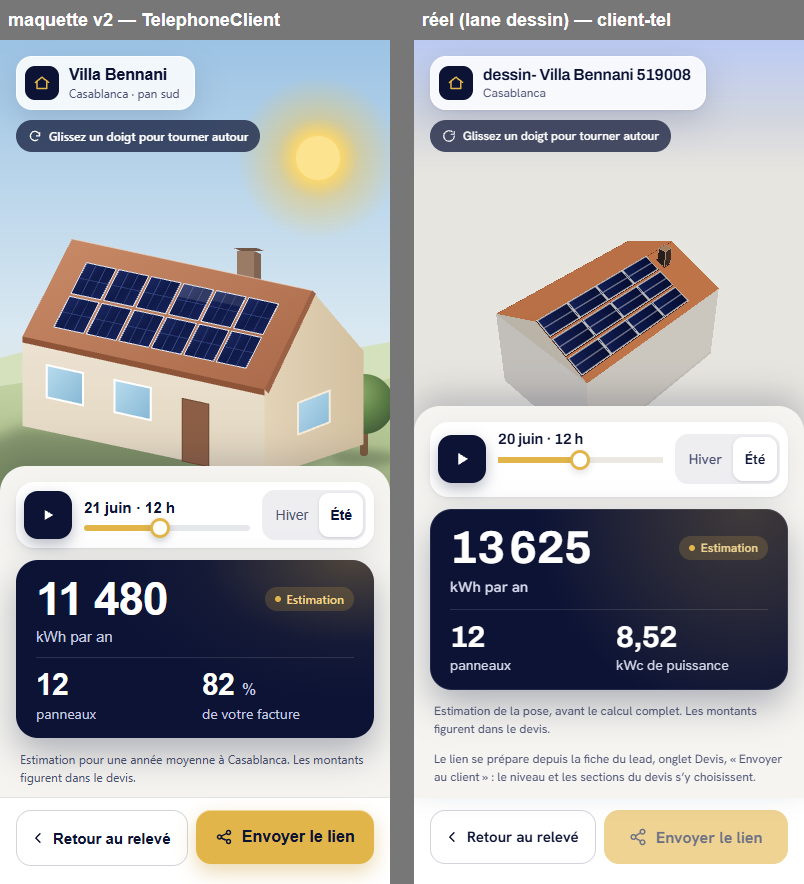
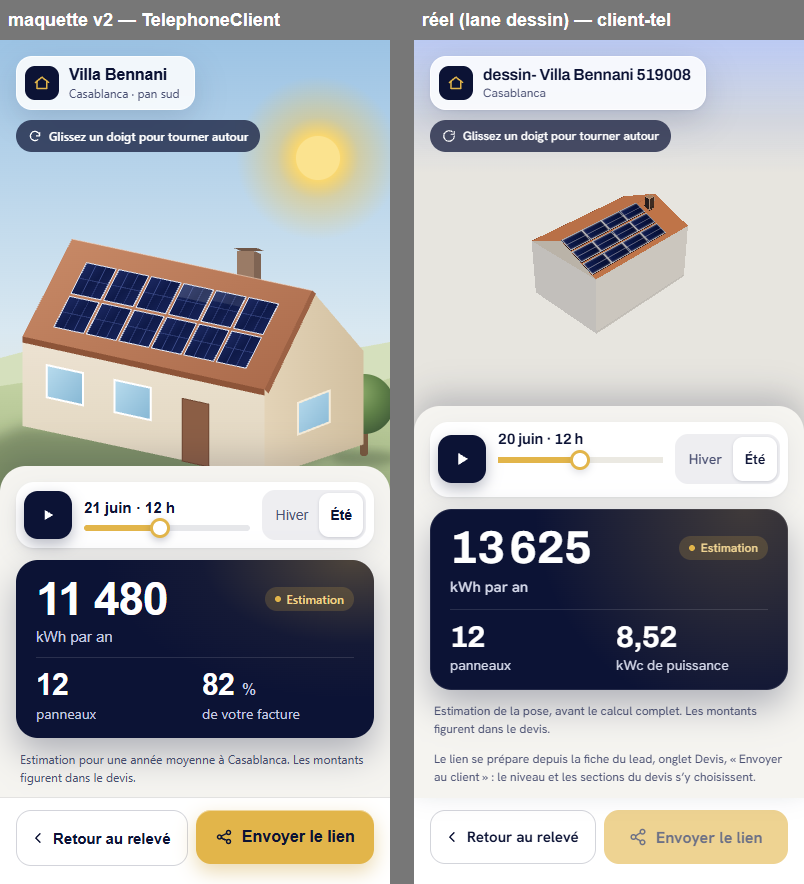
ACAL1839 (suite) : cadrage du volume en perspective, recadrage au changement de vue, rien d'edition au client
Vu a l'ecran apres les commits precedents : (1) en 3D dans l'atelier, la maison restait coupee sous les cartes du
haut — passer Plan -> 3D ne recadrait pas ; (2) l'echelle verticale estimee au centre sous-estimait les parties
proches de l'oeil ; (3) la pastille « Onduleur » (couche electrique) paraissait dans « Montrer au client ».
Correctifs : cadrageToit.ts — hauteur projetee EN CHAQUE sommet par les valeurs singulieres de la projection
locale du sol ((||M||^2^2 - 4 det^2)^1/4 = s.sin theta), 4 passes ; apiCamera.appliquerVue recadre avec le
dernier cadrage demande par l'hote ; part par defaut 0,72 dans l'atelier (ses cartes flottantes ne sont pas
toutes dans ses marges). scene3d.ts — la couche electrique est tue en presentation, rendue a la sortie.
Test : cadrageToit.test.ts « changer de vue recadre avec le dernier cadrage de l'hote ; sans cadrage, la vue
seule ». vitest roofPro11 + estimatorPreviewPro11 : 1557 passed.
Preuves regenerees : T4/preuves/Presentation-, TelephoneClient-, Panneaux-, Electrique-dessin-planche.png,
Scene3D-etats-dessin.png, Atelier3D-cadrage-dessin.png.

Changed region(s): [[0.6219, 0.2138, 0.9017, 0.4581]]

diff --git a/apps/web/src/scripts/roofPro11/cadrageToit.ts b/apps/web/src/scripts/roofPro11/cadrageToit.ts
@@ -60,30 +60,35 @@ export interface SourcesCamera {
   volume?: () => readonly (readonly [number, number, number])[];
 }
 
-/** ACAL1839 — la part de la zone libre (largeur ET hauteur) que le volume occupe au plus : l'air autour de la maison. */
+/** ACAL1839 — la part de la zone libre (largeur ET hauteur) que le volume occupe au plus : l'air autour de la maison ; sans
+ *  `part` demandée (atelier), un peu moins, ses cartes flottantes n'étant pas toutes comptées dans ses marges. */
 const PART_VOLUME_MAX = 0.8;
+const PART_VOLUME_ATELIER = 0.72;
 const M_PAR_DEG = (Math.PI / 180) * WGS84_RADIUS;
 
 /**
  * ACAL1839 — en vue INCLINÉE, le cadrage du contour au sol coupait les murs (maison de 6 m : un mur qui remplit l'écran).
  * Le volume entier — chaque sommet au sol et à sa hauteur — est projeté par la caméra posée, puis zoom et centre
- * sont corrigés (3 passes, la perspective change avec le zoom) pour qu'il tienne dans la zone libre, centré, à au plus
+ * sont corrigés (4 passes, la perspective change avec le zoom) pour qu'il tienne dans la zone libre, centré, à au plus
  * `part` de sa largeur et de sa hauteur. Caméra seule ; faux si la carte ne sait pas projeter.
  */
 function cadrerVolume(map: CarteCadrable, sommets: readonly (readonly [number, number, number])[], libre: { x0: number; y0: number; x1: number; y1: number }, part: number, zoomMax: number): boolean {
   const { project, unproject, getZoom, getPitch } = map;
   if (!project || !unproject || !getZoom || !getPitch || sommets.length === 0) return false;
-  const pente = (getPitch.call(map) * Math.PI) / 180;
-  const [lng0, lat0] = sommets.reduce((a, p) => [a[0] + p[0] / sommets.length, a[1] + p[1] / sommets.length], [0, 0]);
-  const cos = Math.cos((lat0 * Math.PI) / 180);
-  for (let passe = 0; passe < 3; passe++) {
-    const p0 = project.call(map, [lng0, lat0]);
-    const pe = project.call(map, [lng0 + 1 / (M_PAR_DEG * cos), lat0]);
-    const pn = project.call(map, [lng0, lat0 + 1 / M_PAR_DEG]);
-    // 1 m² au sol couvre s²·cos(pente) px² ; 1 m vertical monte de s·sin(pente) px.
-    const aire = Math.abs((pe.x - p0.x) * (pn.y - p0.y) - (pe.y - p0.y) * (pn.x - p0.x));
-    const parMetre = Math.sqrt(aire / Math.max(0.05, Math.cos(pente))) * Math.sin(pente);
-    const pts = sommets.flatMap(([lng, lat, z]) => { const p = project.call(map, [lng, lat]); return [p, { x: p.x, y: p.y - z * parMetre }]; });
+  const cos = Math.cos((sommets[0][1] * Math.PI) / 180);
+  for (let passe = 0; passe < 4; passe++) {
+    // En CHAQUE sommet (la perspective grossit ce qui est près de l'œil, et l'angle du rayon y diffère de la pente) : le sol
+    // s'y projette par une application linéaire M (1 m est, 1 m nord) de valeurs singulières s (en travers du rayon) et
+    // s·cos θ (le long) ; 1 m vertical y monte de s·sin θ = (‖M‖² ² − 4·det²)^¼.
+    const pts = sommets.flatMap(([lng, lat, z]) => {
+      const p = project.call(map, [lng, lat]);
+      const e = project.call(map, [lng + 1 / (M_PAR_DEG * cos), lat]);
+      const n = project.call(map, [lng, lat + 1 / M_PAR_DEG]);
+      const [ex, ey, nx, ny] = [e.x - p.x, e.y - p.y, n.x - p.x, n.y - p.y];
+      const f2 = ex * ex + ey * ey + nx * nx + ny * ny;
+      const det = ex * ny - ey * nx;
+      return [p, { x: p.x, y: p.y - z * Math.pow(Math.max(0, f2 * f2 - 4 * det * det), 0.25) }];
+    });
     const [x0, x1] = [Math.min(...pts.map((p) => p.x)), Math.max(...pts.map((p) => p.x))];
     const [y0, y1] = [Math.min(...pts.map((p) => p.y)), Math.max(...pts.map((p) => p.y))];
     const f = Math.min((part * (libre.x1 - libre.x0)) / Math.max(1, x1 - x0), (part * (libre.y1 - libre.y0)) / Math.max(1, y1 - y0));
@@ -121,7 +126,7 @@ export function cadrerToit(map: CarteCadrable, sources: SourcesCamera, options: 
     if (volume.length >= 3 && (map.getPitch?.() ?? 0) > 1 && map.project) { // ACAL1839 — vue inclinée : le volume entier, avec de l'air
       map.jumpTo({ ...pose, padding: { top: 0, bottom: 0, left: 0, right: 0 } });
       const libre = { x0: gauche, y0: Math.max(haut, ciel), x1: clientWidth - droite, y1: clientHeight - bas };
-      if (cadrerVolume(map, volume, libre, Math.min(PART_VOLUME_MAX, options.part ?? PART_VOLUME_MAX), options.zoomMax ?? 19)) return true;
+      if (cadrerVolume(map, volume, libre, Math.min(PART_VOLUME_MAX, options.part ?? PART_VOLUME_ATELIER), options.zoomMax ?? 19)) return true;
     }
     map.jumpTo(ciel > 0 ? { ...pose, padding: { top: ciel, bottom: 0, left: 0, right: 0 } } : pose);
     return true;
@@ -153,9 +158,12 @@ export function apiCamera(map: CarteCadrable & CartePresentable, sources: Source
     },
     surPrete: v.surPrete,
   });
+  // ACAL1839 — changer de vue (Plan ↔ 3D) recadre le VOLUME avec le dernier cadrage demandé par l'hôte : en 3D la maison
+  // entière (murs compris) reste visible, jamais coupée sous les pièces flottantes de l'atelier.
+  let dernier: OptionsCadrage | null = null;
   return {
-    appliquerVue: (nom: NomVue) => appliquerVue(map, nom, sources.azimut(), reducedMotion),
-    cadrerToit: (options?: OptionsCadrage) => cadrerToit(map, sources, options),
+    appliquerVue: (nom: NomVue) => { appliquerVue(map, nom, sources.azimut(), reducedMotion); if (dernier) cadrerToit(map, sources, dernier); },
+    cadrerToit: (options?: OptionsCadrage) => cadrerToit(map, sources, (dernier = options ?? {})),
     modePresentation: (actif: boolean, vue?: VueClient) => poserPresentation(map, actif, vue ? tenue(vue) : undefined),
   };
 }

diff --git a/apps/web/src/scripts/roofPro11/cadrageToit.test.ts b/apps/web/src/scripts/roofPro11/cadrageToit.test.ts
@@ -100,6 +100,16 @@ describe('ACAL1839 — cadrage du VOLUME en vue inclinée (vue client, atelier)'
     expect(v.y0).toBeGreaterThan(76); expect(v.y1).toBeLessThan(385);
     expect(v.x0).toBeGreaterThan(0); expect(v.x1).toBeLessThan(390);
   });
+  it('changer de vue (Plan → 3D) recadre avec le dernier cadrage de l’hôte ; sans cadrage demandé, la vue seule', () => {
+    const { map } = carte();
+    const api = apiCamera(map, sources(), true);
+    api.appliquerVue('trois-quarts');
+    expect(map.jumpTo).toHaveBeenCalledTimes(1); // la vue seule (site public : aucun cadrage demandé)
+    api.cadrerToit({ zoomMax: 22 });
+    api.appliquerVue('trois-quarts');
+    expect(map.jumpTo).toHaveBeenCalledTimes(4); // cadrage, vue, puis le même cadrage
+    expect(map.jumpTo.mock.calls[3][0].zoom).toBeCloseTo(map.jumpTo.mock.calls[1][0].zoom, 9);
+  });
   it('sans hauteur de scène (site public) ou vue de dessus : le cadrage du contour d’avant', () => {
     const { map } = carteInclinee(1440, 900);
     cadrerToit(map, sources([maison]), { zoomMax: 22 });

diff --git a/apps/web/src/scripts/roofPro11/scene3d.ts b/apps/web/src/scripts/roofPro11/scene3d.ts
@@ -1365,6 +1365,11 @@ export function createScene3d(ctx: Ctx, deps: Scene3dDeps): Scene3d {
   };
   function attacherCoucheElectrique() {
     (groupeElectrique?.userData.siOrigineChange as (() => void) | undefined)?.(); // ACAL1944 — dessinée à l'origine de la scène
+    if (groupeElectrique && atelierErp) { // ACAL1839 — au client, aucun organe d'édition (onduleur, tracés) ; rendue à la sortie
+      const client = jeuScene() === 'presentation';
+      if (client && groupeElectrique.visible) { groupeElectrique.visible = false; groupeElectrique.userData.tuAuClient = true; }
+      else if (!client && groupeElectrique.userData.tuAuClient) { groupeElectrique.visible = true; groupeElectrique.userData.tuAuClient = false; }
+    }
     if (groupeElectrique && sceneRoot && groupeElectrique.parent !== sceneRoot) sceneRoot.add(groupeElectrique);
   }
 
